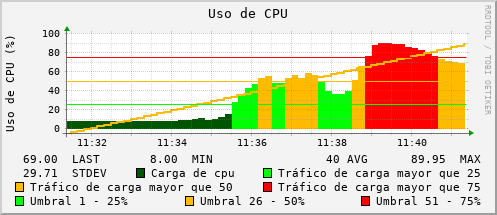
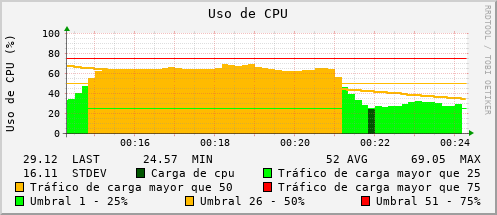
MinimosCuadrados Falta obtener tiempo de los limit

diff --git a/ASR_P2/menuP1.py b/ASR_P2/menuP1.py
@@ -1,8 +1,9 @@
 from createRRD import createRRDTOOL, objectsCreateRRDTOOL
-from graphRRD import graficar, graficarRRD, graficarObjectsRRD
+from graphRRD import graficar, graficarRRD, graficarObjectsRRD, graficarMinimosCuadrados
 from updateRRD import updateRRD, actualizarRRD, actualizarObjectsRRD
 import time
 import sys
+from mail import sendMailTo
 
 repetir = True
 while repetir:
@@ -11,8 +12,8 @@ while repetir:
         '1) Crear Archivo RRD\n'
         '2) Actualizar Archivo RRD\n'
         '3) Graficar\n'
-        '4) Actualizar y Graficar\n'
-        '5) Actualizar y Graficar 5 objetos MIB')
+        '4) Prediccion Minimos cuadrados\n'
+        '5) Graficar CPU Linea Base')
 
     opcion=int(input())
 
@@ -35,30 +36,23 @@ while repetir:
         archivo=input()
         graficar(archivo)
     elif (opcion==4):
-        print('\nIngresa el nombre del archivo rrd: ')
-        archivo=input()
-        print('Ingresa una comunidad: ')
-        comunidad=input()
-        print('Ingresa un host: ')
-        host=input()
-        print('Ingresa un Object ID: (1.3.6.1.2.1.2.2.1.10.3)')
-        oid=input()
-        con=0
-        while (con < 600):
-            actualizarRRD(archivo,comunidad,host,oid)
-            if(con%5==0):
-                graficarRRD(archivo)
-            time.sleep(1)
-            con+=1
-            if(con == 599):
-                print("Desea seguir monitoreando? Y/N: ")
-                res=input()
-                if(res=='Y' or res=='y' or res=="Yes"):
-                    con = 0
-                else:
-                    con = 600
-    elif (opcion==5):
+        #print('\nIngresa el nombre del archivo rrd: ')
+        #archivo=input()
+        #print('Ingresa una comunidad: ')
+        #comunidad=input()
+        #print('Ingresa un host: ')
+        #host=input()
 
+        archivo="pred"
+        comunidad="grupo_4cm1"
+        host="localhost"
+
+        con=0
+        flag=0
+        canSend=False
+        graficarMinimosCuadrados(archivo)
+        
+    elif (opcion==5):
         #print('\nIngresa el nombre del archivo rrd: ')
         #archivo=input()
         #print('Ingresa una comunidad: ')
@@ -75,10 +69,37 @@ while repetir:
         #print('Ingresa un Object ID: (1.3.6.1.2.1.2.2.1.10.3)')
         #oid=input()
         con=0
+        flag=0
+        canSend=False
+
         while (con < 600):
             actualizarObjectsRRD(archivo,comunidad,host)
             if(con%2==0):
-                graficarObjectsRRD(archivo)
+                ultimo_valor = float(graficarObjectsRRD(archivo))
+                if (flag==0):
+                    if (ultimo_valor>23):
+                            canSend=True
+                            flag=1
+                elif (flag==1):
+                        if (ultimo_valor>48):
+                                canSend=True
+                                flag=2
+                        elif (ultimo_valor<23):
+                                flag=0
+                elif (flag==2):
+                        if(ultimo_valor>73):
+                                canSend=True
+                                flag=3
+                        elif(ultimo_valor<48):
+                                flag=1
+                elif (flag==3):
+                        if(ultimo_valor<73):
+                                flag=2
+                
+                if(canSend):
+                        print("Va a sobrepasar el umbral")
+                        canSend=False
+                        sendMailTo("crisvaldru07@outlook.com","Uso del CPU va a sobrepasar el umbral")
             time.sleep(1)
             con+=1
             if(con == 599):

diff --git a/ASR_P2/graphRRD.py b/ASR_P2/graphRRD.py
@@ -1,7 +1,9 @@
 import sys
 import rrdtool
 import time
-from mail import sendMailTo
+
+
+
 
 def graficarRRD(nombre):
         ret = rrdtool.graph( "png/"+nombre+".png",
@@ -10,6 +12,47 @@ def graficarRRD(nombre):
                 "--vertical-label=Bytes/s",
                 "DEF:inoctets=rrd/"+nombre+".rrd:inoctets:AVERAGE",
                 "AREA:inoctets#00FF00:"+nombre)
+
+def graficarMinimosCuadrados (nombre):
+        ultima_lectura = int(rrdtool.last("rrd/"+nombre+".rrd"))
+        tiempo_final = ultima_lectura
+        tiempo_inicial = tiempo_final-600
+        ret = rrdtool.graphv( "png/"+nombre+".png",
+                "--start",str(tiempo_inicial),
+                "--end",str(tiempo_final+3000),
+                "--title=Uso de CPU",
+                "--color", 
+                "ARROW#009900",
+                '--vertical-label', "Uso de CPU (%)",
+                
+                '--lower-limit', '0',
+                '--upper-limit', '100',
+
+                "DEF:outTrafic=rrd/"+nombre+".rrd:outoctets:AVERAGE",
+
+                "VDEF:m=outTrafic,LSLSLOPE",
+                "VDEF:b=outTrafic,LSLINT",
+                "CDEF:tendencia=outTrafic,POP,m,COUNT,*,b,+",
+                "CDEF:limites=tendencia,0,-10,LIMIT",
+                "VDEF:limite1=limites,FIRST",
+                "VDEF:limite2=limites,LAST",
+
+                "VDEF:CPUlast=outTrafic,LAST",
+                "PRINT:CPUlast:%6.2lf %S",
+
+                "AREA:outTrafic#005500:Carga de cpu",
+                "HRULE:0#00FF00",
+                "AREA:tendencia#FFBB0077",
+                "LINE2:tendencia#FFBB00",
+                "LINE1:tendencia#FFBB00:dashes=10",
+                "AREA:limite1#FFFFFF",
+                "GPRINT:limite1:  Reach  0% @ %c :strftime",
+                "GPRINT:limite2:  \nReach -100% @ %c \\n:strftime"
+                
+                )
+        #print(ret['print[0]'])
+        ultimo_valor=float(ret['print[0]'])
+        return ultimo_valor
 
 def graficarObjectsRRD(nombre):
         ultima_lectura = int(rrdtool.last("rrd/"+nombre+".rrd"))
@@ -34,6 +77,7 @@ def graficarObjectsRRD(nombre):
                 "VDEF:m=outTrafic,LSLSLOPE",
                 "VDEF:b=outTrafic,LSLINT",
                 "CDEF:tendencia=outTrafic,POP,m,COUNT,*,b,+",
+                #"CDEF:tendenciaPred=tendencia,90,LT,0,tendencia,IF",
                 #"CDEF:tendenciaMin=outTrafic,POP,m,COUNT,*,b,+,3,-",
                 #"CDEF:tendenciaMax=outTrafic,POP,m,COUNT,*,b,+,3,+",
 
@@ -49,6 +93,7 @@ def graficarObjectsRRD(nombre):
                 "GPRINT:CPUmax:%6.2lf %SMAX",
                 "GPRINT:CPUSTDEV:%6.2lf %SSTDEV",
                 "PRINT:CPUlast:%6.2lf %S",
+                #"PRINT:tendenciaPred:%6.2lf %S",
 
                 "AREA:outTrafic#005500:Carga de cpu",
                 "AREA:umbral25#00FF00:Tráfico de carga mayor que 25",
@@ -61,12 +106,12 @@ def graficarObjectsRRD(nombre):
                 #"LINE1:tendenciaMin#00FF00",
                 #"LINE1:tendenciaMax#FF0000",
                 )
-        print(ret['print[0]'])
+        #print(ret['print[0]'])
         ultimo_valor=float(ret['print[0]'])
+        return ultimo_valor
 
-        if ultimo_valor>25:
-                print("Envio correo segun")
-                #sendMailTo("crisvaldru07@outlook.com","Uso del CPU")
+        
+
 
 def graficar(nombre):
         con = 0

diff --git a/ASR_P2/updateRRD.py b/ASR_P2/updateRRD.py
@@ -8,7 +8,7 @@ total_output_traffic = 0
 def actualizarRRD (archivo, comunidad, host, oid):
     total_input_traffic = int(consultaSNMP(comunidad,host,oid))
     valor = "N:" + str(total_input_traffic)
-    print (valor)
+    #print (valor)
     rrdtool.update("rrd/"+archivo+".rrd", valor)
     rrdtool.dump("rrd/"+archivo+".rrd","xml/"+archivo+".xml")
     #time.sleep(1)
@@ -24,7 +24,7 @@ def actualizarObjectsRRD (archivo, comunidad, host):
     total_output_traffic = int(consultaSNMP(comunidad,host,oid))
     
     valor = "N:" + str(total_input_traffic)+ ':' + str(total_output_traffic)
-    print (valor)
+    #print (valor)
     rrdtool.update("rrd/"+archivo+".rrd", valor)
     rrdtool.dump("rrd/"+archivo+".rrd","xml/"+archivo+".xml")
 

diff --git a/ASR_P2/whileTrue.py b/ASR_P2/whileTrue.py
@@ -1,0 +1,2 @@
+while (1):
+    print("Estresar Procesador")
